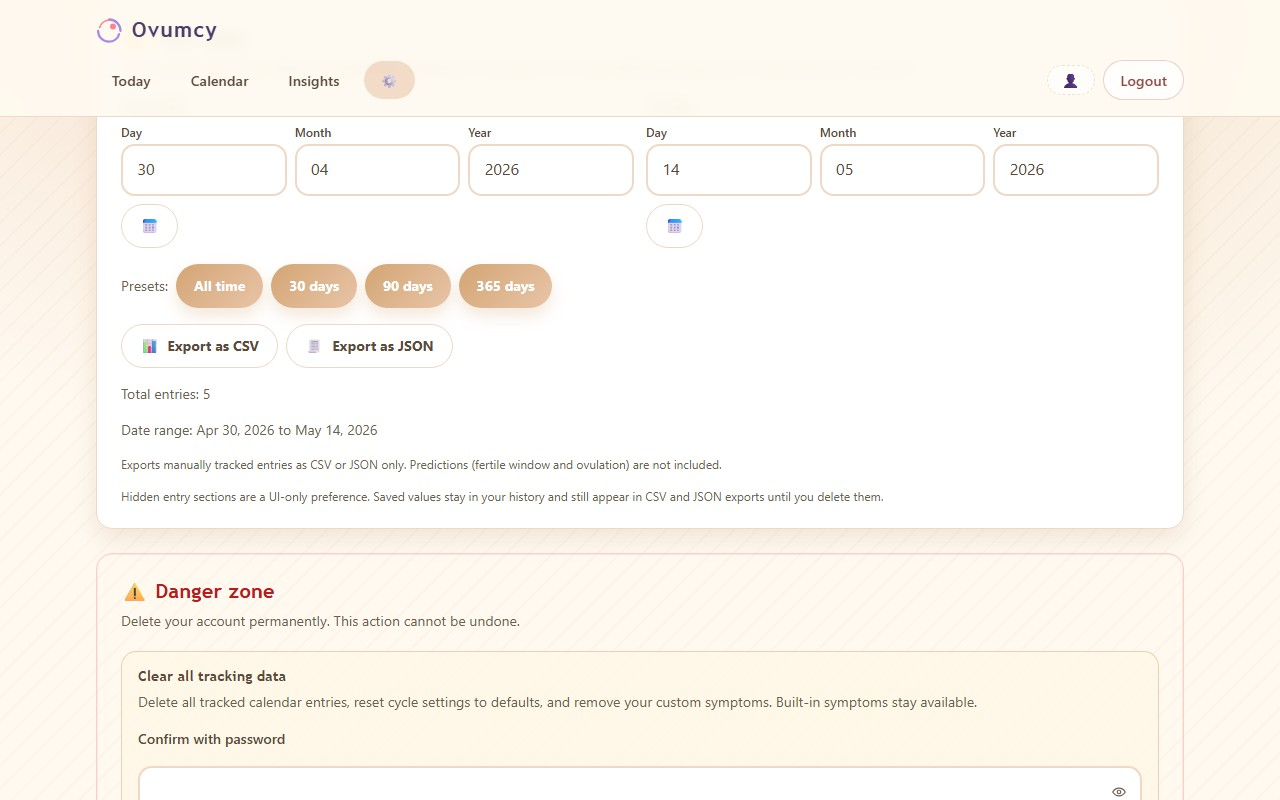
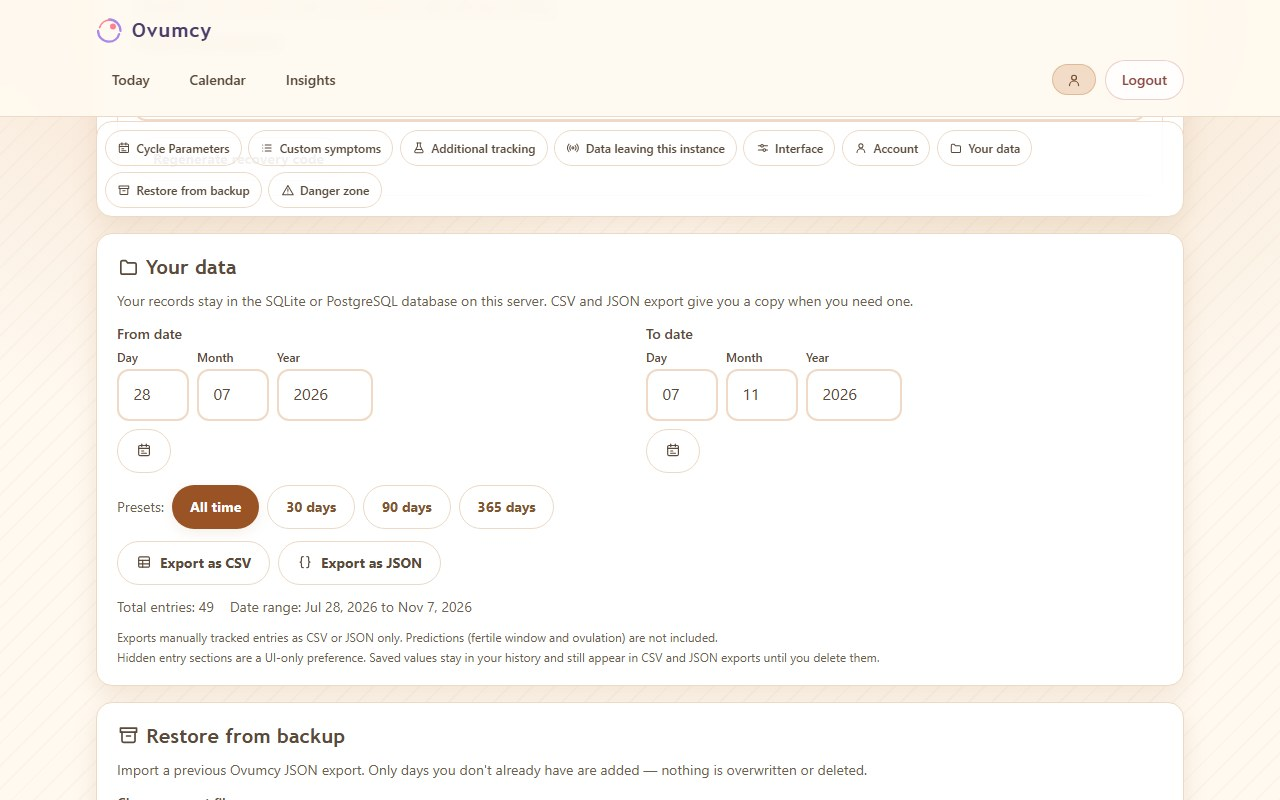
docs: refresh README screenshots and demo clip for v2.0.0
Regenerated from a throwaway local instance with synthetic data; every
frame reviewed for PII, credentials, and the prediction disclaimer.

diff --git a/docs/hero-demo.md b/docs/hero-demo.md
@@ -4,7 +4,7 @@ This document defines the privacy-safe hero demo pack for Ovumcy.
 
 The goal is to keep one reusable asset set for README screenshots, release notes, and short walkthrough clips without ever relying on a live public instance.
 
-The pack is the six stills listed under Asset Guidance below — `docs/screenshots/` also holds logo and social-preview art that is not part of it — plus the recorded first-run clip `docs/demo.gif` (with `docs/demo.mp4` as its source copy), which the README embeds as its hero. Both halves are generated: one run of `scripts/take-screenshots.mjs` writes all six stills, `scripts/record-demo.mjs` writes the GIF and the MP4. Regenerate through those scripts — the Capture Checklist below is the manual description of what they do and the privacy review they cannot do for you.
+The pack is the six stills listed under Asset Guidance below — `docs/screenshots/` also holds logo and social-preview art that is not part of it — plus the recorded first-run clip `docs/demo.gif`, which the README embeds as its hero. The repository carries the stills and the GIF. The clip's other encodings — `docs/demo.mp4` (H.264, its source copy), `docs/demo.webm` (VP9) and `docs/demo-poster.jpg` (its first frame), which the project website embeds — are written next to it but ignored by git, and so are the generators: `scripts/take-screenshots.mjs` writes all six stills, `scripts/record-demo.mjs` writes the clip in all four forms, and both share `scripts/demo-runtime.mjs`. They are maintainer tooling kept outside the published tree; the Capture Checklist below describes what they do, so the pack can be regenerated by hand or by an equivalent script, and the privacy review they cannot do for you.
 
 ## Core Flow
 
@@ -25,19 +25,21 @@ This sequence matches the current product story: create an account, log today qu
 - Use a local or otherwise private self-hosted instance only.
 - Use seeded sample data and generic identity values.
 - Avoid real email addresses, real notes, and any personal health history in captures.
-- Keep the install-prompt asset synthetic and local; it can be driven by the same browser event simulation used in `e2e/pwa-install.spec.ts`.
+- No credential may be legible in any frame: passwords stay in masked fields, and the recovery code shown after sign-up is blurred in the clip even though the account is throwaway.
+- Every frame that shows a prediction also shows its estimate qualifier and the "not medical advice or a method of contraception" disclaimer.
+- Keep the install-prompt asset synthetic and local; it is driven by the same browser event simulation used in `e2e/pwa-install.spec.ts`.
 
 ## Asset Guidance
 
 The still half of the pack is intentionally static-first:
 
-- `register.jpg` covers the first-run entry point.
-- `dashboard.jpg` covers the primary daily logging surface.
-- `calendar.jpg` covers month review and cycle context.
-- `settings-export.jpg` covers data ownership and export.
-- `install-prompt.png` covers phone install CTA behavior.
-- `dark-theme.jpg` covers the dark theme option.
-- `demo.gif` covers the first-run flow in motion; it is the one recorded asset, and every privacy rule in this document applies to it exactly as to a still.
+- `register.jpg` (1280×800 JPEG) covers the first-run entry point.
+- `dashboard.jpg` (1280×800 JPEG) covers the primary daily logging surface: the cycle ring and ribbon (both views, the default) with their estimate qualifiers and disclaimer, and today's journal.
+- `calendar.jpg` (1280×800 JPEG) covers month review and cycle context; it is scrolled so the prediction disclaimer under the grid is in frame.
+- `settings-export.jpg` (1280×800 JPEG) covers data ownership and export.
+- `install-prompt.png` (390×844 PNG) covers phone install CTA behavior, on `/login`.
+- `dark-theme.jpg` (1280×800 JPEG) covers the dark theme option, on the dashboard.
+- `demo.gif` (720×450) covers the first-run flow in motion; it is the one recorded asset, and every privacy rule in this document applies to it exactly as to a still. It stays within the size of the GIF it replaced (about 4.8 MB).
 
 For short release clips or social cuts, prefer stitching these assets together over recording a live server session unless a release specifically needs motion.
 
@@ -45,9 +47,10 @@ For short release clips or social cuts, prefer stitching these assets together o
 
 When regenerating the pack:
 
-1. Start a local instance with a private demo account and seeded sample data.
-2. Run `node scripts/take-screenshots.mjs` against it (it needs an already-onboarded account and its cookie). One run produces all six stills — steps 3 and 4 describe what it does for two of them, and are the recipe only if you are capturing by hand.
-3. The mobile install prompt on `/login`: a mobile viewport and a synthetic `beforeinstallprompt` event.
-4. The dark theme surface, with the dark theme option enabled.
-5. Re-record the clip if the first-run flow changed (`node scripts/record-demo.mjs`, which needs ffmpeg and a built app).
-6. Review every frame for accidental PII before publishing — the GIF frame by frame, not only the stills.
+1. Boot a throwaway instance from the current tree the way the e2e harness does — `go run ./cmd/ovumcy` on a fresh SQLite file with a per-run `SECRET_KEY`, `DEFAULT_LANGUAGE=en`, `TZ=UTC` — and delete its database afterwards. Both scripts do this themselves; they need Go and Playwright's chromium, and the recorder also needs an ffmpeg with libx264 and libvpx-vp9 on `PATH` (or `FFMPEG=<path>`).
+2. Register `demo@example.com` with a password generated for the run, confirm the recovery code without reading it out, and finish cycle setup with the last period starting 15 days ago.
+3. For the stills, restore about three months of synthetic history through **Settings → Restore from backup**: three completed 28–30-day cycles, period days with flow, mood and a few built-in symptoms, no notes and no custom symptoms. Then log today's mood and a symptom on the dashboard.
+4. The mobile install prompt on `/login`: a 390×844 mobile viewport and a synthetic `beforeinstallprompt` event.
+5. The dark theme surface: switch the theme under **Settings → Interface** and save, then open the dashboard.
+6. The clip records the first-run flow on a fresh account at 1280×800: sign-up, cycle setup, logging today's mood and symptoms, the calendar, and the dark theme. It is encoded to H.264 MP4 and VP9 WebM without audio, a JPEG poster of the first frame, and a palette GIF scaled to 720×450 whose frame rate steps down until it fits the size budget.
+7. Review every frame for accidental PII, legible credentials, and a prediction shown without its qualifier and disclaimer before publishing — the GIF frame by frame, not only the stills.

diff --git a/README.md b/README.md
@@ -167,7 +167,7 @@ Up and running? A ⭐ on the repository helps others find Ovumcy.
 ## Demo and Screenshots
 
 <p align="center">
-  <img src="docs/demo.gif" alt="Ovumcy demo — sign up, onboarding, dashboard, calendar, settings, and dark theme" width="720">
+  <img src="docs/demo.gif" alt="Ovumcy demo — sign up, cycle setup, logging today, the calendar, and the dark theme" width="720">
 </p>
 
 <table>
@@ -176,8 +176,8 @@ Up and running? A ⭐ on the repository helps others find Ovumcy.
     <th>Review the month</th>
   </tr>
   <tr>
-    <td><img src="docs/screenshots/dashboard.jpg" alt="Ovumcy dashboard screen"></td>
-    <td><img src="docs/screenshots/calendar.jpg" alt="Ovumcy calendar screen"></td>
+    <td><img src="docs/screenshots/dashboard.jpg" alt="Ovumcy dashboard with the cycle ring and ribbon, estimate qualifiers, and today's journal"></td>
+    <td><img src="docs/screenshots/calendar.jpg" alt="Ovumcy calendar month with predicted days marked as estimates"></td>
   </tr>
   <tr>
     <th>Export what you need</th>
@@ -185,7 +185,7 @@ Up and running? A ⭐ on the repository helps others find Ovumcy.
   </tr>
   <tr>
     <td><img src="docs/screenshots/settings-export.jpg" alt="Ovumcy export settings screen"></td>
-    <td><img src="docs/screenshots/dark-theme.jpg" alt="Ovumcy dark theme screen"></td>
+    <td><img src="docs/screenshots/dark-theme.jpg" alt="Ovumcy dashboard in the dark theme"></td>
   </tr>
   <tr>
     <th>Get started quickly</th>
@@ -193,7 +193,7 @@ Up and running? A ⭐ on the repository helps others find Ovumcy.
   </tr>
   <tr>
     <td><img src="docs/screenshots/register.jpg" alt="Ovumcy registration screen"></td>
-    <td align="center"><img src="docs/screenshots/install-prompt.png" alt="Ovumcy mobile install prompt" width="300"></td>
+    <td align="center"><img src="docs/screenshots/install-prompt.png" alt="Ovumcy login screen on a phone with the install offer" width="300"></td>
   </tr>
 </table>
 

diff --git a/changelog.d/refresh-screenshots-v2.md b/changelog.d/refresh-screenshots-v2.md
@@ -1,0 +1,8 @@
+### Internal
+
+- **README screenshots and the demo clip show the 2.0.0 interface.** The six stills and
+  `docs/demo.gif` dated from 0.9.4: no cycle ribbon, the old phase palette, and a dashboard
+  whose next-period date had no estimate qualifier or "not medical advice" disclaimer in
+  frame. They are regenerated from a local instance with synthetic data, every prediction
+  frame now shows its estimate qualifier and the disclaimer, and the README alt text names
+  what each screen shows. `docs/hero-demo.md` describes the capture as it is actually done.
